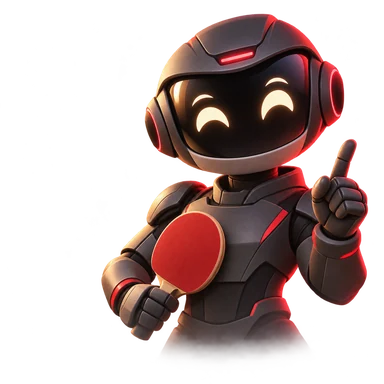
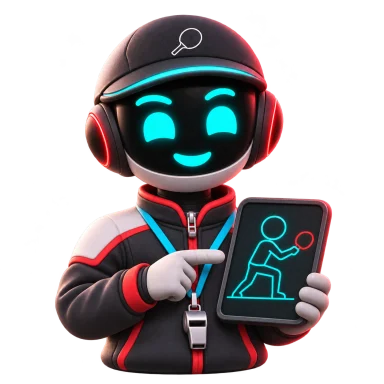
Actualiza la ilustración de Pongi en el Coach de Inicio

diff --git a/src/app/(app)/(home)/index.tsx b/src/app/(app)/(home)/index.tsx
@@ -170,8 +170,8 @@ function ShortcutBanner({ title, subtitle, locked, Icon, artwork, coach = false,
       onPress={onPress}
       style={({ pressed }) => [styles.banner, coach && styles.coachBanner, pressed && styles.pressed]}>
       <CardLighting color={coach ? Brand.red : cyan} />
-      <View pointerEvents="none" importantForAccessibility="no-hide-descendants" style={styles.bannerArtwork}>
-        <Image source={artwork} contentFit="contain" style={styles.bannerImage} />
+      <View pointerEvents="none" importantForAccessibility="no-hide-descendants" style={[styles.bannerArtwork, coach && styles.coachArtwork]}>
+        <Image source={artwork} contentFit="contain" style={coach ? styles.coachImage : styles.bannerImage} />
       </View>
       <View style={styles.bannerTop}>
         <View style={[styles.icon, coach && styles.defeatIcon]}><Icon color={accent} size={20} /></View>
@@ -185,7 +185,7 @@ function ShortcutBanner({ title, subtitle, locked, Icon, artwork, coach = false,
             <Text style={[styles.lockBadgeLabel, { color: coach ? '#FFBCC0' : '#A5F3FC' }]}>{subtitle}</Text>
           </View>
         ) : (
-          <Text style={styles.detail}>{subtitle}</Text>
+          <Text style={[styles.detail, coach && styles.coachDetail]}>{subtitle}</Text>
         )}
       </View>
     </Pressable>
@@ -222,6 +222,9 @@ const styles = StyleSheet.create({
   lockBadgeLabel: { fontSize: 12, fontWeight: '700', flexShrink: 1 },
   bannerArtwork: { position: 'absolute', right: -4, top: 2, opacity: 0.84 },
   bannerImage: { width: 104, height: 104 },
+  coachArtwork: { right: 2, top: 5, width: '48%', maxWidth: 100, aspectRatio: 1, opacity: 1 },
+  coachImage: { width: '100%', height: '100%' },
+  coachDetail: { maxWidth: '60%' },
   search: { borderColor: '#248997' },
   shortcuts: { gap: Spacing.two },
   tile: { minHeight: 48, flexDirection: 'row', alignItems: 'center', gap: Spacing.two, padding: Spacing.two, paddingHorizontal: Spacing.three, borderRadius: 14, backgroundColor: '#101519', borderWidth: 1, borderColor: '#344047' },

diff --git a/docs/pongrank-sistema-de-diseno.md b/docs/pongrank-sistema-de-diseno.md
@@ -105,11 +105,11 @@ Cuando se propone o rediseña una pantalla, se debe proponer también su ilustra
 - Su tono es cercano, motivador y breve, en tú. Habla en primera persona solo cuando da consejos («Te recomiendo retar a alguien de tu nivel»); los estados vacíos y errores usan frases neutras y claras.
 - Aparece en los lugares donde la app orienta: el coach de Inicio, estados vacíos, hitos y victorias, consejos tras una partida. No se usa en datos fríos (tablas de ranking, formularios, pagos).
 - Sus emociones siguen el contexto: celebra una victoria, anima después de una derrota, está curioso al buscar y tranquilo cuando no hay pendientes. Nunca se burla ni culpa al jugador.
-- Su detalle fijo de entrenador lo hace reconocible como coach: **gorra de coach** negra con una pelota de ping pong blanca bordada al frente y una franja celeste `#22D3EE`, más un **silbato plateado** al cuello. Ningún detalle fijo es rojo ni crema, para que se distinga de los detalles rojos del traje; la pelota es blanca pura y con contorno claro para que se vea sobre fondo oscuro. Debe leerse en el encuadre de cabeza a 64 px.
+- Su gorra grafito lleva el **contorno blanco de una paleta** bordado al centro y una franja celeste `#22D3EE`. Lleva ojos celestes, chaqueta deportiva con hombros blancos y ribetes rojos, y **silbato plateado** con cordón celeste.
 
 **Pongi y sus encuadres**
 - Pongi es el personaje único de PongRank. Tiene tres encuadres del mismo diseño: **cabeza** (iconos, avatares, estados vacíos pequeños, notificaciones), **hasta la cadera** (estados vacíos, tarjetas y banners donde el personaje sostiene un objeto) y **cuerpo completo** (hoja de personaje, bienvenida, victoria y escenas de juego).
-- Los tres comparten casco negro, visor luminoso, detalles rojos y el mismo detalle fijo de coach (gorra con pelota y silbato plateado), y la misma paleta cerrada.
+- Los tres comparten el visor luminoso, la misma gorra con la paleta bordada, el silbato plateado y la paleta de colores de PongRank.
 - El encuadre se elige por el espacio disponible y no cambia la identidad: en tamaño pequeño se usa la cabeza, en pantallas con mucho aire el busto, y el cuerpo completo solo cuando la escena lo necesita.
 - La paleta y la pelota grandes se reservan para escenas de juego. En escenas administrativas Pongi sostiene su objeto (buzón, lupa) y conserva su detalle fijo.
 - Una hoja de personaje con los tres encuadres y 4–5 emociones es la referencia de todos los prompts de imagen.
